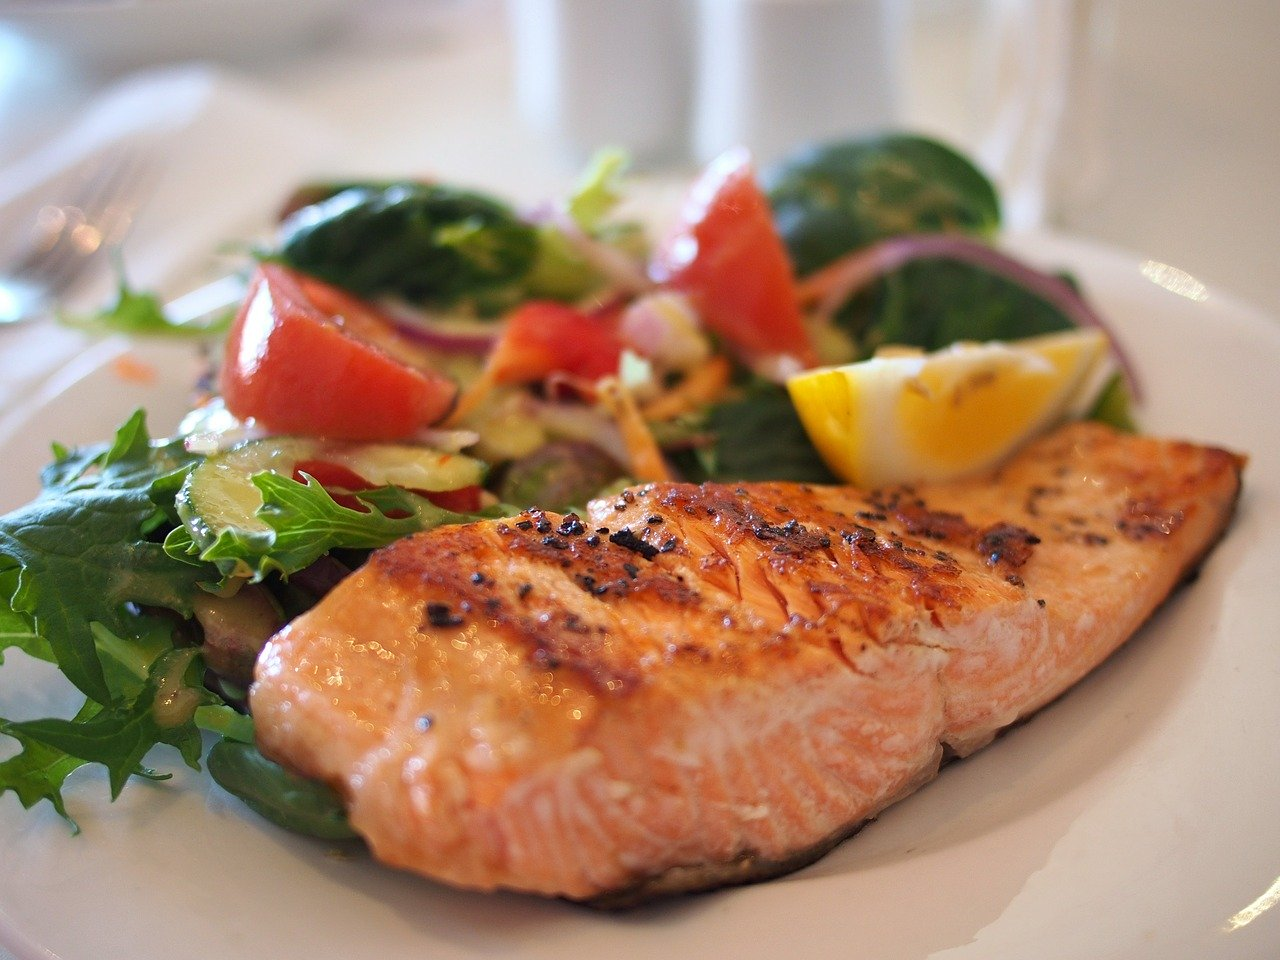
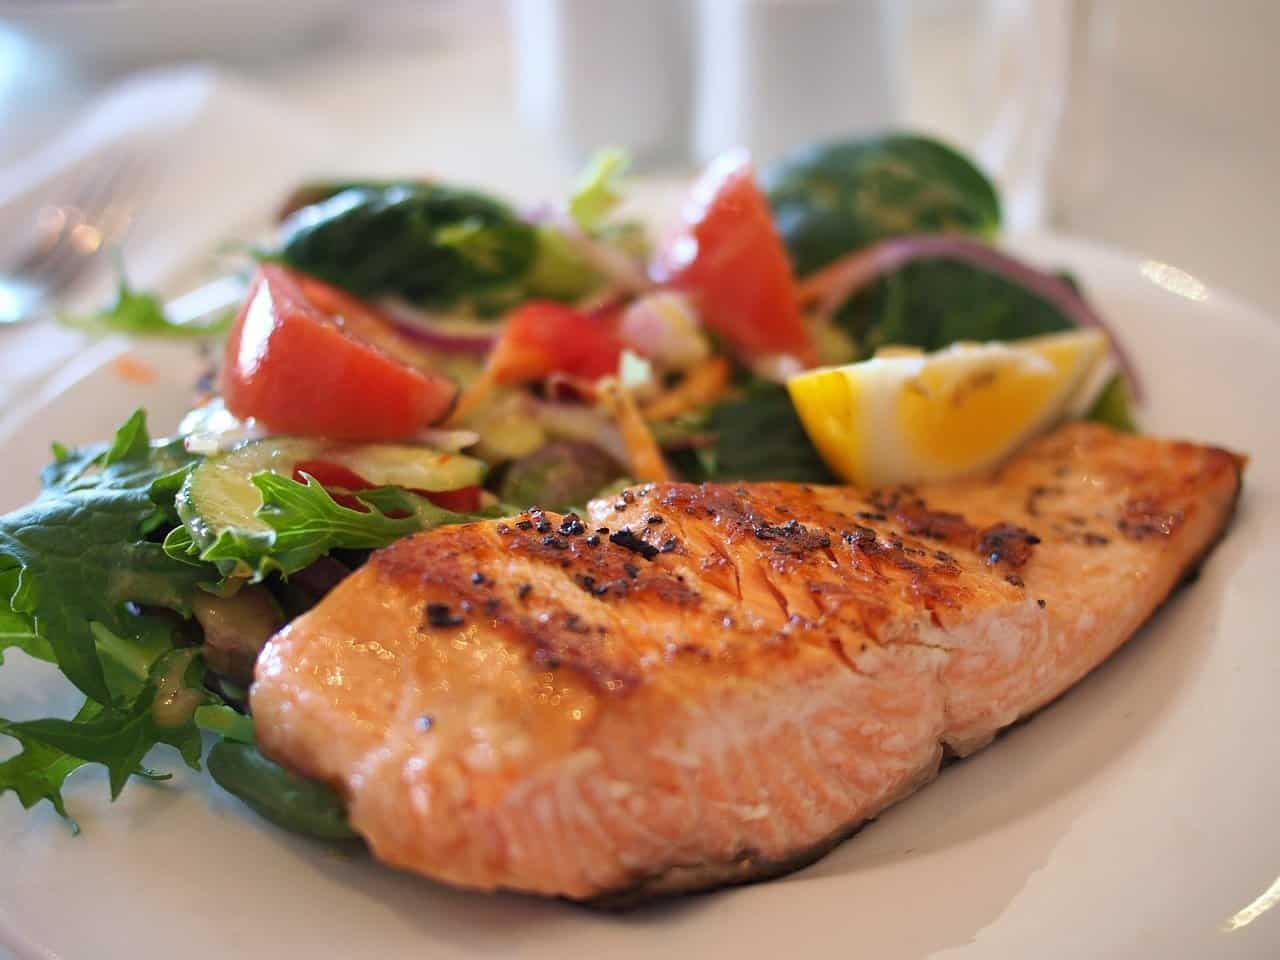
Add support for lazy-loading. Optimize images. Add clean-up mechanism for the fetch hook

Changed region(s): [[0.4062, 0.5, 0.625, 0.5938], [0.6562, 0.5625, 0.7188, 0.5938]]

diff --git a/src/layouts/PageHolder/PageHolder.js b/src/layouts/PageHolder/PageHolder.js
@@ -1,14 +1,14 @@
-import React from "react";
+import React, { lazy } from "react";
 
 import { Switch, Route } from "react-router-dom";
 
-import Home from "../../pages/Home";
-import RestaurantMenu from "../../pages/RestaurantMenu";
-import Events from "../../pages/Events";
-import Chef from "../../pages/Chef";
-import Gallery from "../../pages/Gallery";
-import Contact from "../../pages/Contact";
-import ErrorInfo from "../../pages/ErrorInfo";
+const Home = lazy(() => import("../../pages/Home"));
+const RestaurantMenu = lazy(() => import("../../pages/RestaurantMenu"));
+const Events = lazy(() => import("../../pages/Events"));
+const Chef = lazy(() => import("../../pages/Chef"));
+const Gallery = lazy(() => import("../../pages/Gallery"));
+const Contact = lazy(() => import("../../pages/Contact"));
+const ErrorInfo = lazy(() => import("../../pages/ErrorInfo"));
 
 const PageHolder = () => {
   return (

diff --git a/src/components/App/App.js b/src/components/App/App.js
@@ -5,12 +5,16 @@ import Navigation from "../../layouts/Navigation";
 import PageHolder from "../../layouts/PageHolder";
 import Footer from "../../layouts/Footer";
 
+import PageInfo from "../PageInfo";
+
 function App() {
   return (
     <>
       <Header />
       <Navigation />
-      <PageHolder />
+      <React.Suspense fallback={<PageInfo>Loading content...</PageInfo>}>
+        <PageHolder />
+      </React.Suspense>
       <Footer />
     </>
   );

diff --git a/src/hooks/useFetch.js b/src/hooks/useFetch.js
@@ -60,7 +60,9 @@ const useFetch = (url) => {
 
     getData();
 
-    return () => controller.abort();
+    return () => {
+      controller.abort();
+    };
   }, []);
 
   return state;
